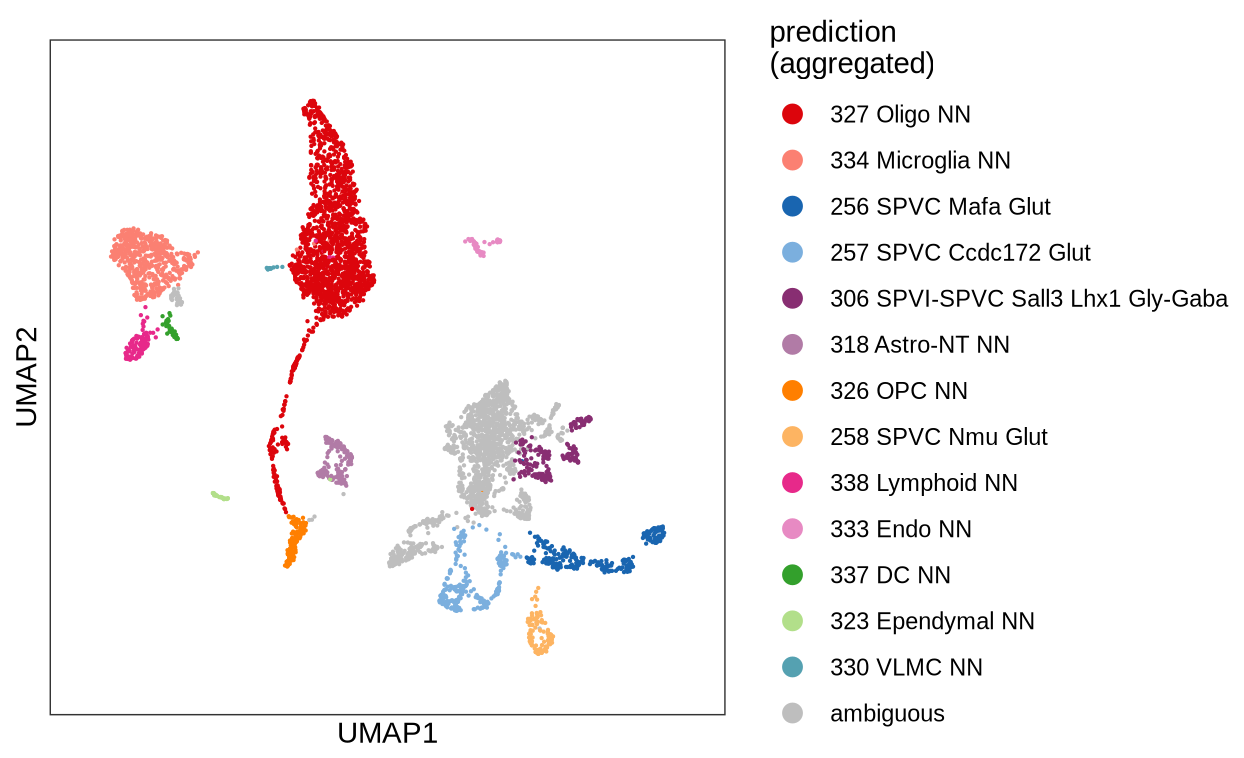
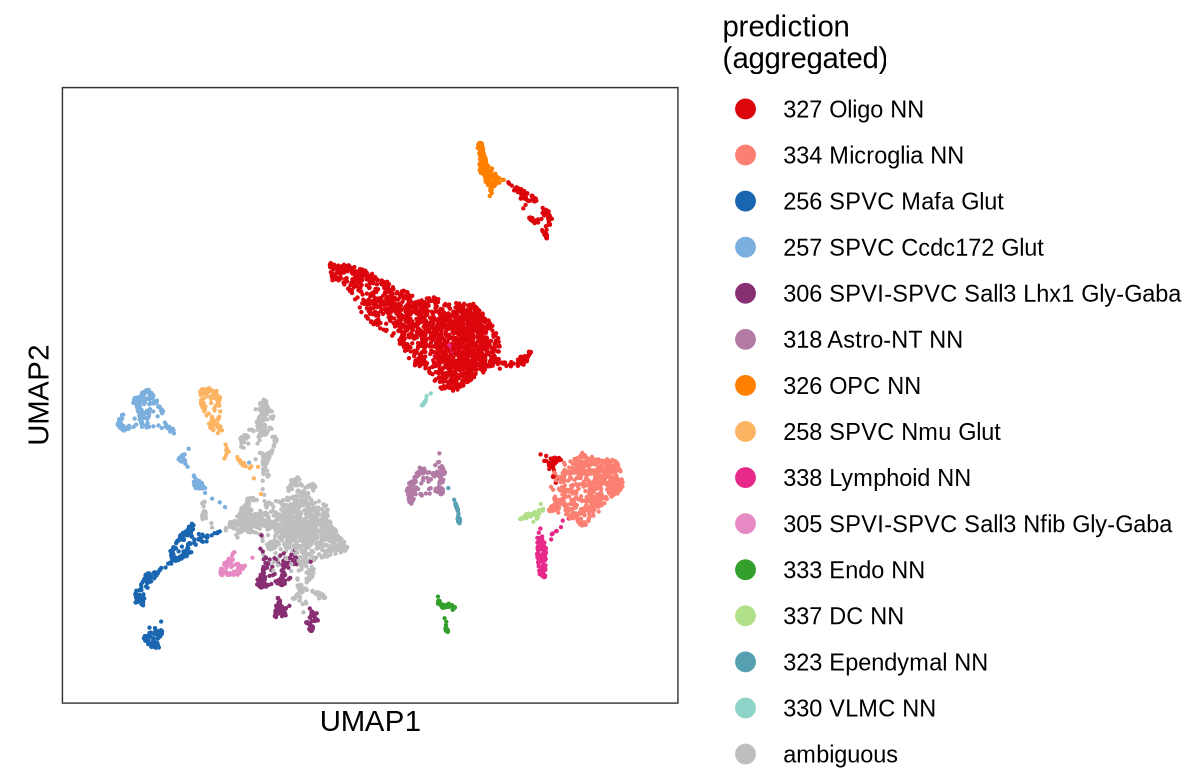
added link to paper and changed labels umap

diff --git a/resources/mkdocs/docs/citation.md b/resources/mkdocs/docs/citation.md
@@ -1,6 +1,6 @@
 # How to cite {{sc}}
 
-If you use {{sc}} in your research, please cite [our paper](https://link-to-your-paper.com).
+If you use {{sc}} in your research, please cite [our preprint](https://www.biorxiv.org/content/10.64898/2026.03.09.710141v1).
 
 {{sc}} relies on various open-source tools. Please consider citing the specific methods used in your analysis:
 
